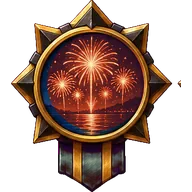
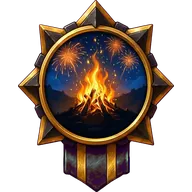
2.186.0: графика английского курса
Портреты 26 персонажей с листа portraits-en.jpg, медальоны меню eye-en
в цветах британского флага, рисованные медали Ночи костров и карнавала
(временный build-en-festival-medals.py удалён). Текст третьей стражницы
приведён к сюжету: белый город в пустыне, речь через «если».

Claude-Session: https://claude.ai/code/session_012FoTdB5qAwJN693kz9isgV

diff --git a/src/components/NavBar.tsx b/src/components/NavBar.tsx
@@ -5,7 +5,9 @@ import eyeEs from '../assets/nav/eye-es.webp';
 import eyeIt from '../assets/nav/eye-it.webp';
 import eyeEsGold from '../assets/nav/eye-es-gold.webp';
 import eyeItGold from '../assets/nav/eye-it-gold.webp';
-import { LANG } from '../lang';
+import eyeEn from '../assets/nav/eye-en.webp';
+import eyeEnGold from '../assets/nav/eye-en-gold.webp';
+import { LANG, type Lang } from '../lang';
 import { useSphinx } from '../store/sphinx';
 
 // Нижнее меню — рисованный ряд из четырёх каменных ячеек (`nav-strip.webp`) и медальон с глазом в гнезде над ними.
@@ -21,9 +23,13 @@ const TABS = [
   { to: '/errands', label: 'Повтор' },
   { to: '/profile', label: 'Профиль' },
 ];
-const EYES = { es: { plain: eyeEs, gold: eyeEsGold }, it: { plain: eyeIt, gold: eyeItGold } };
-/** Медальон языка курса; после Эликсира — золотой (задача 8.3). */
-export const eyeOf = (gold: boolean) => EYES[LANG === 'it' ? 'it' : 'es'][gold ? 'gold' : 'plain'];
+const EYES: Partial<Record<Lang, { plain: string; gold: string }>> = {
+  es: { plain: eyeEs, gold: eyeEsGold },
+  it: { plain: eyeIt, gold: eyeItGold },
+  en: { plain: eyeEn, gold: eyeEnGold },
+};
+/** Медальон языка курса; после Эликсира — золотой (задача 8.3). Курс без своего медальона берёт испанский. */
+export const eyeOf = (gold: boolean) => (EYES[LANG] ?? EYES.es!)[gold ? 'gold' : 'plain'];
 
 function activeTab(pathname: string): number {
   if (pathname.startsWith('/grammar')) return 1;

diff --git a/src/content/changelog.ts b/src/content/changelog.ts
@@ -7,6 +7,11 @@ export interface Release {
 // Новые версии сверху. Версия первой записи должна совпадать с package.json (проверяется тестом).
 export const CHANGELOG: Release[] = [
   {
+    version: '2.186.0',
+    date: '2026-10-14',
+    notes: ['Английский курс: рисованные портреты жителей, Летописца, стражей и кузнеца, свой медальон с глазом в меню в цветах британского флага и рисованные медали Ночи костров и карнавала. Стражница белого города теперь говорит так, как в сюжете: через «если».'],
+  },
+  {
     version: '2.185.0',
     date: '2026-10-14',
     notes: ['Открыт английский курс: британский английский с русского, приморский город из 20 мест, 3600 слов и 300 выражений, 132 урока от A1 до C1, пять глав сюжета, Сфинкс и Хранилище. Выбрать его можно в настройках, в разделе «Язык», прогресс испанского и итальянского остаётся на месте.'],

diff --git a/tests/e2e/story-en.spec.ts b/tests/e2e/story-en.spec.ts
@@ -303,3 +303,11 @@ for (const [id, day] of [
     await expect(page.getByTestId('festival-medal')).toContainText('получена');
   });
 }
+
+test('en: свой медальон в меню и рисованные портреты жителей', async ({ page }) => {
+  await openEnglish(page);
+  await page.goto('./#/grammar');
+  await expect(page.getByTestId('nav-eye')).toHaveAttribute('src', /eye-en(?!-gold)/);
+  await page.goto(`./#/scene/${encodeURIComponent('sc:cafe.1')}`);
+  await expect(page.getByTestId('npc-art').first()).toHaveAttribute('src', /molly/);
+});

diff --git a/scripts/build-medal-art.py b/scripts/build-medal-art.py
@@ -1,5 +1,6 @@
 """Медали (промты — `docs/design/medals-prompt.md`): оправы ступеней `docs/design/medal-frames.png`, эмблемы линий
-`docs/design/medal-emblems.png` и тайные медали `docs/design/medal-secrets.png`.
+`docs/design/medal-emblems.png` и тайные медали `docs/design/medal-secrets.png`, праздники английского курса —
+`docs/design/medal-secrets-en.png`.
 
 Листы нарисованы на пурпурном фоне (#FF00FF) сеткой: каждая медаль в своей ячейке (искры у книги и молнии — отдельные
 пятна, поэтому делим по ячейкам, а не по связным областям). Скрипт снимает фон и сохраняет в `src/assets/medals/`
@@ -25,6 +26,7 @@ TIERS = ['wood', 'stone', 'bronze', 'silver', 'gold', 'diamond']
 LINES = ['words', 'streak', 'grammar', 'cartographer', 'friend', 'courier', 'blitz', 'typed', 'builder', 'trials', 'listener', 'echo']
 SECRETS = ['saved-streak', 'flawless', 'midnight', 'labyrinth', 'sphinx', 'keeper',
            'festival-sanfermin', 'festival-tomatina', 'festival-ferragosto', 'festival-carnevale']
+SECRETS_EN = ['festival-bonfire', 'festival-carnival']
 
 
 def keyed(path: Path):
@@ -95,6 +97,9 @@ def main():
     for line, piece in zip(LINES, cells(DESIGN / 'medal-emblems.png', 4, 3)):
         square(piece, by_height=False)[0].save(OUT / f'emblem-{line}.webp', 'WEBP', quality=80, method=6)
     for sid, piece in zip(SECRETS, cells(DESIGN / 'medal-secrets.png', 5, 2)):
+        square(piece, by_height=True)[0].save(OUT / f'secret-{sid}.webp', 'WEBP', quality=80, method=6)
+    # Праздники английского курса (2.186.0) — свой лист из двух медалей.
+    for sid, piece in zip(SECRETS_EN, cells(DESIGN / 'medal-secrets-en.png', 2, 1)):
         square(piece, by_height=True)[0].save(OUT / f'secret-{sid}.webp', 'WEBP', quality=80, method=6)
     print(json.dumps(frames))
 

diff --git a/scripts/cut-portraits.py b/scripts/cut-portraits.py
@@ -1,8 +1,8 @@
 """
 Портреты персонажей из листов docs/design/portraits-<язык>.jpg: 20 жителей мест, Летописец, четыре стража
-и кузнец. Испанский лист — версия 2.62.0, итальянский — 2.82.0. Вырезается внутренняя часть каждой рамки,
+и кузнец. Испанский лист — версия 2.62.0, итальянский — 2.82.0, английский — 2.186.0. Вырезается внутренняя часть каждой рамки,
 без золотой обводки и таблички с именем, в пропорциях игрового портрета 14:18, размер 168×216.
-Запуск: python3 scripts/cut-portraits.py [es|it] (без аргумента — оба языка, нужен Pillow).
+Запуск: python3 scripts/cut-portraits.py [es|it|en] (без аргумента — все языки, нужен Pillow).
 """
 from PIL import Image
 import os, sys
@@ -28,9 +28,17 @@ SHEETS={
     small_x=[(52,200),(232,348),(388,500),(530,642),(678,798),(834,978)],
     small_y=(1272,1436),
   ),
+  'en':dict(
+    cols=[(100,283),(318,495),(533,708),(748,925)],
+    rows=[(72,258),(330,515),(582,768),(833,1018),(1085,1250)],
+    names=[['molly','patel','jake','archie'],['higgins','bert','chloe','shah'],['evans','dan','whitmore','liam'],
+           ['zoe','graham','finn','priya'],['emma','okafor','tom','bradley']],
+    small_x=[(63,195),(222,350),(378,505),(530,657),(684,808),(836,962)],
+    small_y=(1318,1455),
+  ),
 }
 # Сдвиг центра по x для отдельных портретов, если лицо не по центру рамки.
-SHIFT={'es':{},'it':{}}
+SHIFT={'es':{},'it':{},'en':{}}
 
 def cut(lang):
     s=SHEETS[lang]

diff --git a/scripts/build-nav-art.py b/scripts/build-nav-art.py
@@ -85,8 +85,8 @@ def strip() -> None:
     print('nav-strip.webp', out.size, geometry)
 
 
-def eyes() -> None:
-    im = Image.open(DESIGN / 'nav-wow-eyes.png').convert('RGB')
+def eyes(sheet: str, names: list[str]) -> None:
+    im = Image.open(DESIGN / sheet).convert('RGB')
     a = np.asarray(im).astype(int)
     r, g, b = a[..., 0], a[..., 1], a[..., 2]
     magenta = (r > 180) & (b > 180) & (g < 90)
@@ -97,7 +97,6 @@ def eyes() -> None:
             runs.append((start, p))
             start = c
     runs.append((start, cols[-1]))
-    names = ['eye-es', 'eye-it', 'eye-es-gold', 'eye-it-gold']
     assert len(runs) == len(names), runs
     for name, (x0, x1) in zip(names, runs):
         rows = np.where((~magenta[:, x0:x1 + 1]).sum(axis=1) > 10)[0]
@@ -115,4 +114,6 @@ def eyes() -> None:
 
 if __name__ == '__main__':
     strip()
-    eyes()
+    eyes('nav-wow-eyes.png', ['eye-es', 'eye-it', 'eye-es-gold', 'eye-it-gold'])
+    # Английский (2.186.0) — свой лист из двух медальонов: обычный и золотой.
+    eyes('nav-wow-eyes-en.png', ['eye-en', 'eye-en-gold'])

diff --git a/CLAUDE.md b/CLAUDE.md
@@ -27,7 +27,7 @@ React 19, Vite 8 (rolldown), TypeScript, Tailwind v4, Zustand, Dexie (IndexedDB)
 ## Устройство
 
 - `src/lang.ts` — язык курса (`es` | `it` | `en`, `LANG_IDS`) и его свойства `L` / `LANGS`, собранные из профилей (задача 16.6). Закрытый курс (`released: false` в профиле: английский с 2.169.0 по 2.184.0, задачи 17.1–17.9; с 2.185.0 открыт) не виден в выборе языка и в предложении второго языка (`RELEASED_LANGS`), тесты полноты контента его пропускают. Профиль — `src/langs/<язык>/index.ts` (`LangProfile` в `src/langs/types.ts`, реестр `PROFILES` в `src/langs/index.ts`): голоса, база, `variety` — какой вариант языка в курсе (испанский — язык Испании с vosotros; переключатель на латиноамериканский убран в 2.148.0, задача 12.7), артикли, род (`gender`; без рода у существительного не нужен `gender`) и проверка артикля по роду `articleIssue`, буквы с диакритикой `letters`, клавиши испытаний `examKeys`, правила склейки ответа `answerRules`, сокращения `contractions` (английское «don't» = «do not»: `expandContractions` в `normalize` и в `tokens` скриптов), равноправное написание `spelling` (британское и американское: сравнение ответов идёт через `canon` в `answer.ts`, только своего языка), ошибки текста для валидатора `textIssues` (английские a/an), кузница `verbs` (времена с уроком открытия, лица, генератор форм — `src/langs/<язык>/verbs.ts`, допустимые поля глагола), виды Звонницы `pairKinds`, праздники с правилом недели, обращение к путнику `hero`, признаки «ты/вы» `you`, подписи районов, фразы проверки голоса, `heroKey`, `reminderBase`. Профиль — данные и чистые функции, из `src/domain` и `src/content` только типы (иначе циклы через `lang.ts`). Проверка полноты — `src/langs/profile.test.ts`. Картинки по языку и виртуальные модули остаются у компонентов. Язык читается из `localStorage['eslacity.lang']` при запуске, смена языка перезагружает приложение.
-- `src/content/<язык>/words/<локация>.json` — слова (поле `es` исторически означает «форма на изучаемом языке» для любого языка). `src/content/<язык>/grammar/<район>/*.json` — уроки. У каждого упражнения постоянный `id` вида `<lessonId>.<n>`: новым упражнениям его проставляет `npx tsx scripts/add-exercise-ids.ts`, существующие id не менять. `src/content/<язык>/npcs.json` — жители мест (по одному на место, свои в каждом языке, `src/content/npcs.ts`), портрет рисуется кодом из поля `look` (`src/components/npcArt.ts`), а если в `look` есть `portrait` — рисованной картинкой `src/assets/portraits/<язык>/<portrait>.webp` (`NpcPortrait`, `portraitUrl`; на картах города и странствий всегда пиксельная фигурка, `pixel`). Портреты обоих языков режет `scripts/cut-portraits.py` из `docs/design/portraits-<язык>.jpg` (координаты рамок у каждого листа свои, промт итальянского листа — `docs/design/portraits-it-prompt.md`), наличие картинки проверяет `validatePortraits`. `src/content/<язык>/scrolls/<глава>.json` — свитки земель, общие слова главы без места (id `scroll1.<slug>`, грузятся как «место» `scroll1`, в индексе `SCROLL_WORDS`). `src/content/<язык>/chronicler.json` — Летописец, житель без места: просит учить слова свитка на карте странствий, его поручения — слова свитков (`npcFor`, `SCROLL_PLACE`). `src/content/<язык>/phrases/<место>.json` — готовые фразы ситуации для миссий: id `ph:<место>.<slug>`, необязательные слова в скобках (`src/domain/phrase.ts`), в словарный запас не входят; валидатор проверяет, что слова фразы есть в словаре мест того же уровня или ниже (леммы из `scripts/data`, `uncoveredWords` в `scripts/vocab-lib.ts`). Схема: `src/content/schema.ts`. Закрытый курс (`released: false`; так писался английский, дальше — турецкий и португальский) валидатор проверяет по готовым файлам (`partialChecks` в `scripts/validate-content.ts`: жители, Летописец, стражи пяти глав, кузница, Звонница, портреты, тексты, а с 17.3 и слова мест и свитков — `partialWordChecks`: поля, редкие слова, CEFR, одинаковые переводы, с 17.5 — фразы, сцены, миссии и развилки, `partialStoryChecks`: развилок не меньше двух требуют только главы, у которых уже есть миссии следующей главы; с 17.8 — письма и записки в обоих родах путника и Сфинкс, `letterChecks` и `sphinxChecks`, с 17.9 — пролог и нить глав в обоих родах, книги, слухи, дневник и праздники, `prologueChecks`, `threadChecks`, `bookChecks`, `rumorDiaryChecks`, `partialFestivalChecks`, если файлы есть); отчёт `npm run vocab` для курса без уроков считает покрытие одними словами. Валидатор: `src/content/validate/` (с 2.166.0, задача 16.5: файл на вид контента — `words.ts`, `grammar.ts`, `scenes.ts`, `missions.ts`, `sphinx.ts`…, общее — `common.ts`, вход — `index.ts`) и `scripts/validate-content.ts`. Файлы контента всех видов и языков — в реестре `src/content/registry.ts` (`loaders(вид)` — ключ файла → загрузчик языка курса, `loader(вид, ключ)`, `eager(вид)` для маленьких файлов в основном чанке); загрузчики своих `import.meta.glob` не заводят, новый вид или язык — строка в реестре.
+- `src/content/<язык>/words/<локация>.json` — слова (поле `es` исторически означает «форма на изучаемом языке» для любого языка). `src/content/<язык>/grammar/<район>/*.json` — уроки. У каждого упражнения постоянный `id` вида `<lessonId>.<n>`: новым упражнениям его проставляет `npx tsx scripts/add-exercise-ids.ts`, существующие id не менять. `src/content/<язык>/npcs.json` — жители мест (по одному на место, свои в каждом языке, `src/content/npcs.ts`), портрет рисуется кодом из поля `look` (`src/components/npcArt.ts`), а если в `look` есть `portrait` — рисованной картинкой `src/assets/portraits/<язык>/<portrait>.webp` (`NpcPortrait`, `portraitUrl`; на картах города и странствий всегда пиксельная фигурка, `pixel`). Портреты всех трёх языков режет `scripts/cut-portraits.py` из `docs/design/portraits-<язык>.jpg` (координаты рамок у каждого листа свои, промты — `docs/design/portraits-<язык>-prompt.md`), наличие картинки проверяет `validatePortraits`. `src/content/<язык>/scrolls/<глава>.json` — свитки земель, общие слова главы без места (id `scroll1.<slug>`, грузятся как «место» `scroll1`, в индексе `SCROLL_WORDS`). `src/content/<язык>/chronicler.json` — Летописец, житель без места: просит учить слова свитка на карте странствий, его поручения — слова свитков (`npcFor`, `SCROLL_PLACE`). `src/content/<язык>/phrases/<место>.json` — готовые фразы ситуации для миссий: id `ph:<место>.<slug>`, необязательные слова в скобках (`src/domain/phrase.ts`), в словарный запас не входят; валидатор проверяет, что слова фразы есть в словаре мест того же уровня или ниже (леммы из `scripts/data`, `uncoveredWords` в `scripts/vocab-lib.ts`). Схема: `src/content/schema.ts`. Закрытый курс (`released: false`; так писался английский, дальше — турецкий и португальский) валидатор проверяет по готовым файлам (`partialChecks` в `scripts/validate-content.ts`: жители, Летописец, стражи пяти глав, кузница, Звонница, портреты, тексты, а с 17.3 и слова мест и свитков — `partialWordChecks`: поля, редкие слова, CEFR, одинаковые переводы, с 17.5 — фразы, сцены, миссии и развилки, `partialStoryChecks`: развилок не меньше двух требуют только главы, у которых уже есть миссии следующей главы; с 17.8 — письма и записки в обоих родах путника и Сфинкс, `letterChecks` и `sphinxChecks`, с 17.9 — пролог и нить глав в обоих родах, книги, слухи, дневник и праздники, `prologueChecks`, `threadChecks`, `bookChecks`, `rumorDiaryChecks`, `partialFestivalChecks`, если файлы есть); отчёт `npm run vocab` для курса без уроков считает покрытие одними словами. Валидатор: `src/content/validate/` (с 2.166.0, задача 16.5: файл на вид контента — `words.ts`, `grammar.ts`, `scenes.ts`, `missions.ts`, `sphinx.ts`…, общее — `common.ts`, вход — `index.ts`) и `scripts/validate-content.ts`. Файлы контента всех видов и языков — в реестре `src/content/registry.ts` (`loaders(вид)` — ключ файла → загрузчик языка курса, `loader(вид, ключ)`, `eager(вид)` для маленьких файлов в основном чанке); загрузчики своих `import.meta.glob` не заводят, новый вид или язык — строка в реестре.
 - Виды упражнений грамматики (все пять базовых есть в каждом уроке, это требует валидатор): `choose`, `gap`, `truefalse` и продуктивные `build` (собрать предложение из плиток, лишние в `extra`, другой порядок в `alt`) и `type` (вписать форму в `___`, `hint`, `alt`). Проверка — `checkGrammar` в `src/domain/grammar.ts` (форма без ударения — «почти», опечатки не прощаются: `checkForm`), показ — `GrammarItemView` в `src/components/exercises/GrammarItem.tsx`, общий для урока, повторения правил и стражей. Лишняя плитка не должна собирать другую верную фразу, у ввода подсказка снимает второй ответ, равноправные формы — в `alt`; `src/content/grammarProductive.test.ts` проверяет это на всём контенте, `tests/e2e/grammar.spec.ts` проходит каждый урок целиком (английский курс, пока закрытый, — `grammar-en.spec.ts`: уроки открываются напрямую, без пролога и города; его сцены и миссии — `story-en.spec.ts`, вход — `openEnglish` в фикстурах). Виды уровня C1 (задача 7.3, необязательные): `transform` (пересказ с ключевым словом `keyword`), `cloze` (текст с пропусками, у каждого свой список `answers`), `fix` (найти слово `wrong` и вписать форму), `register` (та же мысль в регистре `to`: выбор `options` или плитки `extra`), `combine` (связать две фразы связкой `connector`), `paraphrase` (выбор того же смысла). Проверка — там же в `checkGrammar`, ввод без букв ответа в испытаниях (`TYPED_KINDS`), валидатор — `checkC1Exercise`. Сквозной `answerGrammar` находит задание по `data-ex`. Район C1 (глава V, задачи 7.4–7.5): 20 уроков `src/content/<язык>/grammar/c1/`, в каждом не меньше трёх видов C1; страж главы V — Хозяин Эха.
 - План словаря: `src/content/vocabPlan.ts` (числа из `docs/GAME.md`). Частотные списки лемм лежат в `scripts/data/` (строит `scripts/build-freq.ts`, источники и лицензии в шапке файлов), в сборку не попадают. После добавления слов запускать `npm run vocab`, он пересобирает `docs/vocab/<язык>.md`: покрытие, медиана ранга по уровням, доля первой тысячи к концу каждой главы, списки «частые позже главы II» и «редкие на уровнях 1–4» (задача 12.1). Поправки к частотному списку — `scripts/data/skip-<язык>.txt` (`applySkips`, `applySkipsToForms`: шум выбрасывается, ошибки лемматизации сводятся к своей лемме). Слово уровней 1–4 дальше ранга 5000 (`RARE_RANK`, ранг — `wordRank`, у словосочетаний его нет) поднимается на уровень 5–6 или помечается `topical: true`, тематических не больше трёх на урок (`rarityIssues` в `scripts/vocab-lib.ts`; проверка работает для всех мест, ранги — по очищенному списку, как в отчёте). Слова переезжают между уровнями только сменой `level` и `cefr`, id не меняется; уровень 6, где уже есть выученные слова, не закрывается (`isWordLevelOpen`).
 - `vite.config.ts` строит виртуальные модули `virtual:grammar-index` (индекс уроков для карты) и `virtual:word-index/<язык>` (id слов по местам и уровням для пути; с 2.165.0 свой модуль на язык, `src/content/wordIndex.ts` берёт индекс языка курса через `await` на верхнем уровне) и режет уроки на чанки по языку и району. Код по экранам (задача 16.2): в `App.tsx` сразу грузятся только главная и уроки слов и фраз, остальные экраны — `React.lazy` через `screen(...)` с `Suspense` и `Loading`; список изменений `AboutApp` грузит своим чанком. Экран, который нужен главной или сцене главы, не импортируют из другого экрана: общее выносится (`src/lib/chronicle.ts` — нить и книги для бейджа Летописи, `src/components/LandArt.tsx` — рисунки земель). Главный чанк меньше 350 КБ — проверяет `loading.spec.ts`.
@@ -72,7 +72,7 @@ React 19, Vite 8 (rolldown), TypeScript, Tailwind v4, Zustand, Dexie (IndexedDB)
 - Звонница — минимальные пары (задача 10.2): `src/content/<язык>/pairs.json` (звонарь `ringer` того же вида, что кузнец, и противопоставления `contrasts`: `kind` `swap` с полем `swap`, `stress`, `double` или `caps` — английское ударение без знаков: ударный слог заглавными, REcord / reCORD, у обоих слов `say` с окружением «a record» / «to record»; виды языка — `pairKinds` в профиле; пары `[слово, слово]`), загрузка `src/content/pairs.ts`, логика `src/domain/minimalPairs.ts` (`pairTasks`, `pairVerdict`, `retryTask`, `pairIssue`), валидатор `validatePairs` (пара различается ровно тем, что заявлено, не меньше `PAIRS_MIN` пар; общая проверка мастера без места — `checkMaster`). Экран `/bells` (`src/screens/Bells.tsx`), вход — карточка на экране грамматики под кузницей. Без звука (`listeningEnabled`) звонить нельзя. Ответы в журнале — режим `pairs`, id `mp:<противопоставление>.<n>` (`isPairId`, не слово); верные идут в `recordListening` (линия «Слушатель»). Сквозной тест — `bells.spec.ts`.
 - Ответ голосом (задача 10.3): `src/audio/speechInput.ts` (`voiceInputSupported`: есть `SpeechRecognition`, сеть и не APK; `listenAnswer` — до пяти вариантов на языке `recognitionLang`; запрет микрофона прячет кнопку до перезапуска), выбор варианта — `bestAlternative` в `src/domain/voiceAnswer.ts` по проверке задания, кнопка `VoiceAnswer` (`src/components/VoiceAnswer.tsx`, следит за `online`/`offline`). Стоит у ввода в миссии (`HeroTurn`, проверка `answerNode`) и в испытаниях (`TypeAnswer` и `PhraseType` с `exam`). Услышанное только встаёт в поле, проверку запускает игрок. Сквозной тест — `voice.spec.ts` (заглушка `SpeechRecognition`, `setOffline`).
 - Напоминания (задача 10.4): настройки `reminderOn`, `reminderTime`; расписание и текст — `src/domain/reminder.ts` (`reminderSlots`: `REMINDER_DAYS` дней вперёд, сегодня только если цель дня не выполнена; `reminderText` от Летописца), на устройстве — `src/lib/reminder.ts` (`reminderSupport`: `native` | `periodic` | `none`; `enableReminder`, `reminderStatus`, `syncReminder`, `watchReminder` из `bootstrap` пересчитывает расписание при выполненной цели и смене настроек). APK — плагин `@capacitor/local-notifications` (номера уведомлений по языку, значок `ic_stat_eslacity` из `scripts/build-icons.py`, `capacitor.config.ts`). Сайт — `public/reminder-sw.js`, подключён к service worker через workbox `importScripts`: по `periodicsync` читает расписание из кэша `eslacity-reminder` (запись на язык) и показывает наступившее, опоздавшее больше чем на 12 часов пропускает. Раздел «Напоминание» в настройках — `ReminderCard`. Тесты: `src/lib/reminderSw.test.ts` (service worker в песочнице), сквозной `reminder.spec.ts`.
-- Праздники (задача 10.5): `src/domain/festival.ts` (`FESTIVALS` собирается из `festivals` профилей языков: хозяин — здание города, цвета флажков, знак, тайная медаль, неделя `week(year)`; `festivalWeek`: Сан-Фермин 6–14 июля, Томатина вокруг последней среды августа, Феррагосто 12–18 августа, Карнавал — шесть дней до Жирного вторника по Пасхе; английские — Ночь костров 2–8 ноября и карнавал в Ноттинг-Хилле с четверга до среды вокруг последнего понедельника августа; `activeFestival`, `festivalsDone` — миссия, пройденная в неделю праздника; `placePath`). Контент — `src/content/<язык>/festivals/<id>.json` (`intro`, `about`, `names` — имена собственные для проверки словаря, слова `fest-<id>.<slug>` уровня 1, фразы `ph:fest-<id>.<slug>`, миссия `ms:fest-<id>.2` сложности главы II, `FESTIVAL_CHAPTER`). Праздник — «место» `fest-<id>`: его слова, фразы и миссию находят обычные загрузчики (`content/index.ts`, `phrases.ts`, `missions.ts`), хозяин — `npcFor`. Экран `/festival/:id` (`src/screens/Festival.tsx`), приглашение на главной, флажки и знак на карте, календарь в профиле — `src/components/FestivalBits.tsx`. Тайные медали праздников — в `SECRETS` с полем `lang` (видны только в своём курсе), счётчик `festivals` в `MedalCounters`; картинки английских собирает `scripts/build-en-festival-medals.py` из готовых медалей праздников. Валидатор `validateFestivals` (общие проверки фраз и миссий с `places`, свой словарь покрытия с праздничными словами). Сквозной тест — `festival.spec.ts` (`page.clock`).
+- Праздники (задача 10.5): `src/domain/festival.ts` (`FESTIVALS` собирается из `festivals` профилей языков: хозяин — здание города, цвета флажков, знак, тайная медаль, неделя `week(year)`; `festivalWeek`: Сан-Фермин 6–14 июля, Томатина вокруг последней среды августа, Феррагосто 12–18 августа, Карнавал — шесть дней до Жирного вторника по Пасхе; английские — Ночь костров 2–8 ноября и карнавал в Ноттинг-Хилле с четверга до среды вокруг последнего понедельника августа; `activeFestival`, `festivalsDone` — миссия, пройденная в неделю праздника; `placePath`). Контент — `src/content/<язык>/festivals/<id>.json` (`intro`, `about`, `names` — имена собственные для проверки словаря, слова `fest-<id>.<slug>` уровня 1, фразы `ph:fest-<id>.<slug>`, миссия `ms:fest-<id>.2` сложности главы II, `FESTIVAL_CHAPTER`). Праздник — «место» `fest-<id>`: его слова, фразы и миссию находят обычные загрузчики (`content/index.ts`, `phrases.ts`, `missions.ts`), хозяин — `npcFor`. Экран `/festival/:id` (`src/screens/Festival.tsx`), приглашение на главной, флажки и знак на карте, календарь в профиле — `src/components/FestivalBits.tsx`. Тайные медали праздников — в `SECRETS` с полем `lang` (видны только в своём курсе), счётчик `festivals` в `MedalCounters`; картинки английских (с 2.186.0 рисованные) режет `scripts/build-medal-art.py` из своего листа `docs/design/medal-secrets-en.png`. Валидатор `validateFestivals` (общие проверки фраз и миссий с `places`, свой словарь покрытия с праздничными словами). Сквозной тест — `festival.spec.ts` (`page.clock`).
 - Отчёты об ошибках (задача 11.1): таблица `reports` (`ReportRecord`, причины `REPORT_REASONS`, текст для копирования `formatReports` в `src/domain/report.ts`; запись и чтение — `src/db/reports.ts`). Кнопка `ReportButton` (окно в портале на `document.body`: лист итога ответа сдвигается `transform`-ом) стоит в `FeedbackSheet`, если у итога есть `itemId` (его ставят `LessonPlayer`, `PhraseRun`, `RuleReview`, `GrammarLesson`, `TrialPlayer`, кузница, Звонница), в разговоре (`<сцена>#<номер реплики>`) и в миссии (`<миссия>#<узел>`). Новое задание с итогом — сразу с `itemId`. Отчёты в резервной копии (`OPTIONAL`), раздел в настройках — `ReportsCard`. Сквозной тест — `report.spec.ts`.
 - Правила перевода (задача 15.3): `docs/TRANSLATION.md`. `translationIssues` в `src/domain/translation.ts` (из `scripts/validate-content.ts`, по всем файлам контента) сверяет «ты/вы» перевода с оригиналом у каждой пары `es`/`ru` и `fem` (`sourceAddress`, `ruAddress`; решает оригинал, а не `register` жителя) и типографику русских строк (`typographyIssues`: «ёлочки», `NO_YO`). Новый перевод пишется по этим правилам.
 - Вычитка носителем (задача 11.2): `scripts/export-review.ts` выгружает строки на изучаемом языке в `review/<язык>/<вид>.csv` (в git не попадает). Строка выгрузки — `extractRows` в `scripts/review-lib.ts`: поля по `TARGET_KEYS` (у мудрости Сфинкса ещё `title`), русские и служебные ветки — `SKIP_KEYS`, строка с кириллицей без латиницы не выгружается; адрес — `file` и `path` (`getAt`/`setAt`), тест проверяет, что адрес каждой строки ведёт к её тексту. Новые поля контента на изучаемом языке добавлять в `TARGET_KEYS`. Загрузка правок (задача 11.3) — `scripts/import-review.ts`: `fixesFromCsv`, `applyFixes` (правка — только если текст в контенте тот же, что видел носитель), замена точечная по месту строки в тексте файла (`locateStrings`), файлы целиком не переписываются; потом отчёт `review/<язык>/applied-*.md`, валидатор и тесты контента. Инструкция носителю — `docs/REVIEW.md`.
@@ -81,7 +81,7 @@ React 19, Vite 8 (rolldown), TypeScript, Tailwind v4, Zustand, Dexie (IndexedDB)
 - Загрузка и переходы (задача 14.6): пока экран ждёт контент, он возвращает `<Loading />` из `src/components/ui.tsx` (внутри экрана — `inline`), а не `null`; появляется через 250 мс. `Screen` проявляется классом `screen-in` (только прозрачность: `transform` сломал бы `position: fixed` у листа итога), при `prefers-reduced-motion` без анимации. Главная предзагружает место «Продолжить» (`stepPlace` в `next.ts`) и следующий урок грамматики. Сквозной тест — `loading.spec.ts`.
 - Настройки по разделам (задача 14.4): `/settings` — оглавление, `/settings/<раздел>` — экран раздела (`SettingsScreen` в `src/screens/Settings.tsx`). Разделы и порядок — `SETTINGS_SECTIONS` в `src/domain/settingsSections.ts` (`hero`, `learning`, `sound`, `reminder`, `language`, `data`, `app`, `reports`), подпись выбранного под названием — `settingsHint`. Новая настройка встаёт в подходящий раздел (`SECTION_BODY`); сквозные тесты идут прямо в раздел (`goto('./#/settings/<раздел>')`), оглавление проверяет `settings.spec.ts`.
 - Приложение для Android (APK, с 2.113.0): Capacitor (`capacitor.config.ts`, проект `android/`, создан `npx cap add android`), внутри та же сборка `dist/`. Собирает его GitHub Actions задачей `android` параллельно с тестами (`npx cap sync android`, `./gradlew assembleRelease`), задача `package` кладёт его на сайт как `eslacity.apk`; ссылка — раздел «Приложение для Android» в настройках. Локально Android SDK нет (dl.google.com закрыт), проверка сборки — по прогону в CI. `src/lib/native.ts`: `NATIVE`, `initNative` (без `viewport-fit=cover`, кнопка «Назад»), `saveJsonFile` (резервная копия в «Документы/Eslacity», WebView не скачивает файлы). В приложении нет service worker, новая версия ищется по `version.json` сайта и сравнивается по номеру версии (`remoteIsNewer`: сайт и APK собираются разными задачами CI, время сборки у них разное), «Обновить» — свой плагин `ApkUpdatePlugin.java` (`installApk` в `native.ts`): скачивает APK в кэш и открывает установщик, без разрешения на установку открывает настройки. Озвучка в приложении — плагин `@capacitor-community/text-to-speech` (в WebView нет Web Speech), ветка `NATIVE` в `tts.ts`. Версия APK из `package.json` (versionCode = мажор·10000 + минор·100 + патч). Подпись (с 2.123.0, задача 16.1): gradle собирает APK без подписи, подписывает шаг «Подпись APK» в CI ключами из секретов GitHub (`ANDROID_KEYSTORE_B64`, `ANDROID_KEYSTORE_PASSWORD`, `ANDROID_OLD_KEYSTORE_B64`, `ANDROID_OLD_KEYSTORE_PASSWORD`): новый ключ `eslacity2026` с цепочкой от старого `eslacity` (APK Signature Scheme v3, `--rotation-min-sdk-version 28`, поэтому minSdk 28), потом `apksigner verify --print-certs` и `apksigner lineage` сверяют отпечатки. Ключи в репозиторий не класть (`android/.gitignore`), цепочку не менять, иначе обновление не встанет поверх; инструкция — `docs/ANDROID.md`. Иконки и заставка Android — `scripts/build-icons.py`.
-- `src/assets/` — картинки города и меню. Нижнее меню (задача 14.2, рисованное с 2.157.0): `NavBar` — ряд из четырёх каменных ячеек `src/assets/nav/nav-strip.webp` (фон блока `nav-art`) и медальон с глазом в гнезде над рядом (`eye-<язык>.webp`, после Эликсира `eye-<язык>-gold.webp`, `eyeOf`; он же крупно в `/vault`), подписи ячеек рисует код (`nav-label`, Tiny5 12 px, не растёт с размером текста). Картинки и геометрию `nav-strip.json` (ячейки, внутренние панели — по ним центрируются подписи, полоса подписи, гнездо) строит `scripts/build-nav-art.py` из `docs/design/nav-wow-strip.png` и `nav-wow-eyes.png` (промт — `docs/design/nav-wow-prompt.md`). Высота ряда — `--nav-h` в `src/index.css` (во всю ширину экрана в пропорции картинки, не выше 14% высоты), место под меню на экранах с вкладками — `--nav-space`.
+- `src/assets/` — картинки города и меню. Нижнее меню (задача 14.2, рисованное с 2.157.0): `NavBar` — ряд из четырёх каменных ячеек `src/assets/nav/nav-strip.webp` (фон блока `nav-art`) и медальон с глазом в гнезде над рядом (`eye-<язык>.webp`, после Эликсира `eye-<язык>-gold.webp`, `eyeOf`: курс без своего медальона берёт испанский; он же крупно в `/vault`), подписи ячеек рисует код (`nav-label`, Tiny5 12 px, не растёт с размером текста). Картинки и геометрию `nav-strip.json` (ячейки, внутренние панели — по ним центрируются подписи, полоса подписи, гнездо) строит `scripts/build-nav-art.py` из `docs/design/nav-wow-strip.png`, `nav-wow-eyes.png` и `nav-wow-eyes-en.png` (у английского свой лист из двух медальонов) (промт — `docs/design/nav-wow-prompt.md`). Высота ряда — `--nav-h` в `src/index.css` (во всю ширину экрана в пропорции картинки, не выше 14% высоты), место под меню на экранах с вкладками — `--nav-space`.
 - Иконки приложения и значок вкладки (`public/icons/*.png`, `public/favicon-32.png`, `favicon-16.png`) режет `scripts/build-icons.py` из `docs/design/app-icon.jpg` (медальон с глазом); иконка под маску — картинка целиком, медальон в безопасной зоне.
 
 ## Правила

diff --git a/docs/ROADMAP.md b/docs/ROADMAP.md
@@ -1656,6 +1656,7 @@
 | 2026-10-12 | 17.1 профиль английского | 2.169.0 | `src/langs/en` (закрыт, `released: false`): артикли a/an/the без рода, a/an по звуку в валидаторе (`textIssues`), сокращения как полные формы, британское и американское написание (`canon`), формы -s/-ed/-ing и неправильные глаголы (`past`, `pp`, `dbl`); частотный список и леммы en (7000 лемм), `skip-en`, `risky-en`; уроки открытия времён кузницы — id по плану 17.4 |
 | 2026-10-12 | 17.2 город и жители английского | 2.170.0 | 20 жителей, Летописец, 5 стражей, кузнец Гарет (76 глаголов, глаголы состояния без Continuous — `stative`), звонарь Агнес (ship/sheep, th/s, v/w, cat/cut, ударение REcord/reCORD — новый вид `caps` с `say`); full/fool заменено на cat/cut: пары не строятся заменой букв; валидатор проверяет закрытый курс без слов по готовым файлам; промт `portraits-en-prompt.md` |
 | 2026-10-12 | 17.3 слова глав I–II английского | 2.171.0 | 960 слов мест (20 мест × 4 уровня × 12) и свитки I (87) и II (181), всего 1228; британские слова, редкие бытовые — `topical`; покрытие первой тысячи словами 68%, до 80% к концу главы II — грамматикой в 17.4; валидатор проверяет слова закрытого курса, отчёт `docs/vocab/en.md` без уроков; шум субтитров и американское написание в `skip-en.txt` |
+| 2026-10-14 | графика английского курса | 2.186.0 | лист портретов (26), медальоны меню `eye-en`, рисованные медали праздников; текст третьей стражницы приведён к сюжету |
 | 2026-10-14 | 17.9 открытие английского курса | 2.185.0 | `released: true` в профиле: язык в выборе и в предложении второго языка; полный валидатор и тесты полноты контента проходят для английского без поправок; этап 17 закрыт |
 | 2026-10-14 | план: порядок языков | без версии | английский открывается без вычитки носителем; турецкий — этап 18 (следующий), португальский — этап 19, только бразильский вариант без европейского |
 | 2026-10-13 | 17.9 праздники английского | 2.184.0 | Ночь костров (парк, Берт) и карнавал в Ноттинг-Хилле (магазин одежды, Хлоя): по 12 слов, 8 фраз, миссия на 7 ответов, тайные медали из готовых картинок; валидатор закрытого курса проверяет праздники |

diff --git a/docs/design/portraits-en-prompt.md b/docs/design/portraits-en-prompt.md
@@ -1,6 +1,6 @@
 # Промт для листа портретов английской версии
 
-Пока листа нет, жители английского города рисуются кодом из поля `look` (`src/components/npcArt.ts`). Лист устроен как испанский и итальянский: 26 портретов, сетка 5×4 для жителей и нижний ряд из шести (Летописец, четыре стража, кузнец), лист вертикальный 2:3 (как 1024×1536). Так `scripts/cut-portraits.py` режет его тем же порядком (`SMALL`: cronista, guardian1–4, smith), координаты рамок снимаются заново по готовому листу. Хозяина Эха (страж главы V), звонарку Агнес и привратника пролога на листе нет, как и у других языков.
+С 2.186.0 лист готов (`docs/design/portraits-en.jpg`), портреты у всех 20 жителей, Летописца, четырёх стражей и кузнеца. Лист устроен как испанский и итальянский: 26 портретов, сетка 5×4 для жителей и нижний ряд из шести (Летописец, четыре стража, кузнец), лист вертикальный 2:3 (как 1024×1536). Так `scripts/cut-portraits.py` режет его тем же порядком (`SMALL`: cronista, guardian1–4, smith), координаты рамок снимаются заново по готовому листу. Хозяина Эха (страж главы V), звонарку Агнес и привратника пролога на листе нет, как и у других языков.
 
 Готовый лист кладётся в `docs/design/portraits-en.jpg`. Дальше: координаты в `SHEETS['en']` скрипта, `python3 scripts/cut-portraits.py en`, у персонажей в `look` появляется `portrait` (имя файла: id жителя, `cronista`, `guardian1`–`guardian4`, `smith`).
 

diff --git a/docs/design/nav-wow-prompt.md b/docs/design/nav-wow-prompt.md
@@ -82,7 +82,7 @@ No text, no letters, no numbers, no shadow on the background.
 
 ## Английский курс: медальоны с глазом (с 2.185.0)
 
-Своих медальонов у английского пока нет: `eyeOf` в `NavBar.tsx` для любого языка, кроме итальянского, берёт испанский глаз. Нужны два медальона в той же манере, что `nav-wow-eyes.png`: обычный и золотой (после Эликсира). Генерировать лучше с приложенным листом `docs/design/nav-wow-eyes.png` как образцом, чтобы кольцо, руны и масштаб глаза совпали.
+С 2.186.0 медальоны английского готовы: `eye-en.webp` и `eye-en-gold.webp`, лист `docs/design/nav-wow-eyes-en.png`. Для следующих языков — два медальона в той же манере, что `nav-wow-eyes.png`: обычный и золотой (после Эликсира). Генерировать лучше с приложенным листом `docs/design/nav-wow-eyes.png` как образцом, чтобы кольцо, руны и масштаб глаза совпали.
 
 ```
 Sheet of 2 round UI medallions for a mobile fantasy RPG, in the hand-painted stylized art style of World of
@@ -103,4 +103,4 @@ Left to right:
 No text, no letters, no numbers, no shadow on the background. Do not use magenta or bright pink in the medallions.
 ```
 
-После генерации: лист — в `docs/design/nav-wow-eyes-en.png`; `scripts/build-nav-art.py` режет его так же, как остальные глаза, в `src/assets/nav/eye-en.webp` и `eye-en-gold.webp`; `eyeOf` берёт глаз по языку курса из таблицы на все три языка.
+После генерации: лист — в `docs/design/nav-wow-eyes-<язык>.png`, в `scripts/build-nav-art.py` — вызов `eyes(...)` с именами `eye-<язык>` и `eye-<язык>-gold`, в `EYES` в `NavBar.tsx` — строка языка.

diff --git a/docs/design/medals-prompt.md b/docs/design/medals-prompt.md
@@ -137,7 +137,7 @@ readable at 64x64 pixels on a phone.
 
 ## 3а. Праздничные медали английского курса (с 2.184.0)
 
-Сейчас «Огни пятого ноября» (Ночь костров) и «Стальной барабан» (карнавал в Ноттинг-Хилле) собирает `scripts/build-en-festival-medals.py` из медалей Феррагосто и Карнавала: перекрашенный фейерверк и маска. Это временная замена. Рисованные медали — тем же промтом, что лист тайных медалей, с приложенным `docs/design/medal-secrets.png` как образцом оправы.
+С 2.186.0 обе медали рисованные, лист — `docs/design/medal-secrets-en.png`, режет его `scripts/build-medal-art.py` (`SECRETS_EN`). До этого их собирал из медалей Феррагосто и Карнавала временный скрипт.
 
 | Медаль | Праздник | Сцена в центре |
 |---|---|---|
@@ -163,7 +163,6 @@ Do not use magenta or bright pink anywhere in the medals. Consistent light from 
 readable at 64x64 pixels on a phone.
 ```
 
-После генерации: лист — в `docs/design/medal-secrets-en.png`; медали режутся так же, как остальные тайные (`scripts/build-medal-art.py`, имена `festival-bonfire` и `festival-carnival`), и заменяют собранные картинки; `scripts/build-en-festival-medals.py` тогда больше не нужен.
 
 ## После генерации
 
